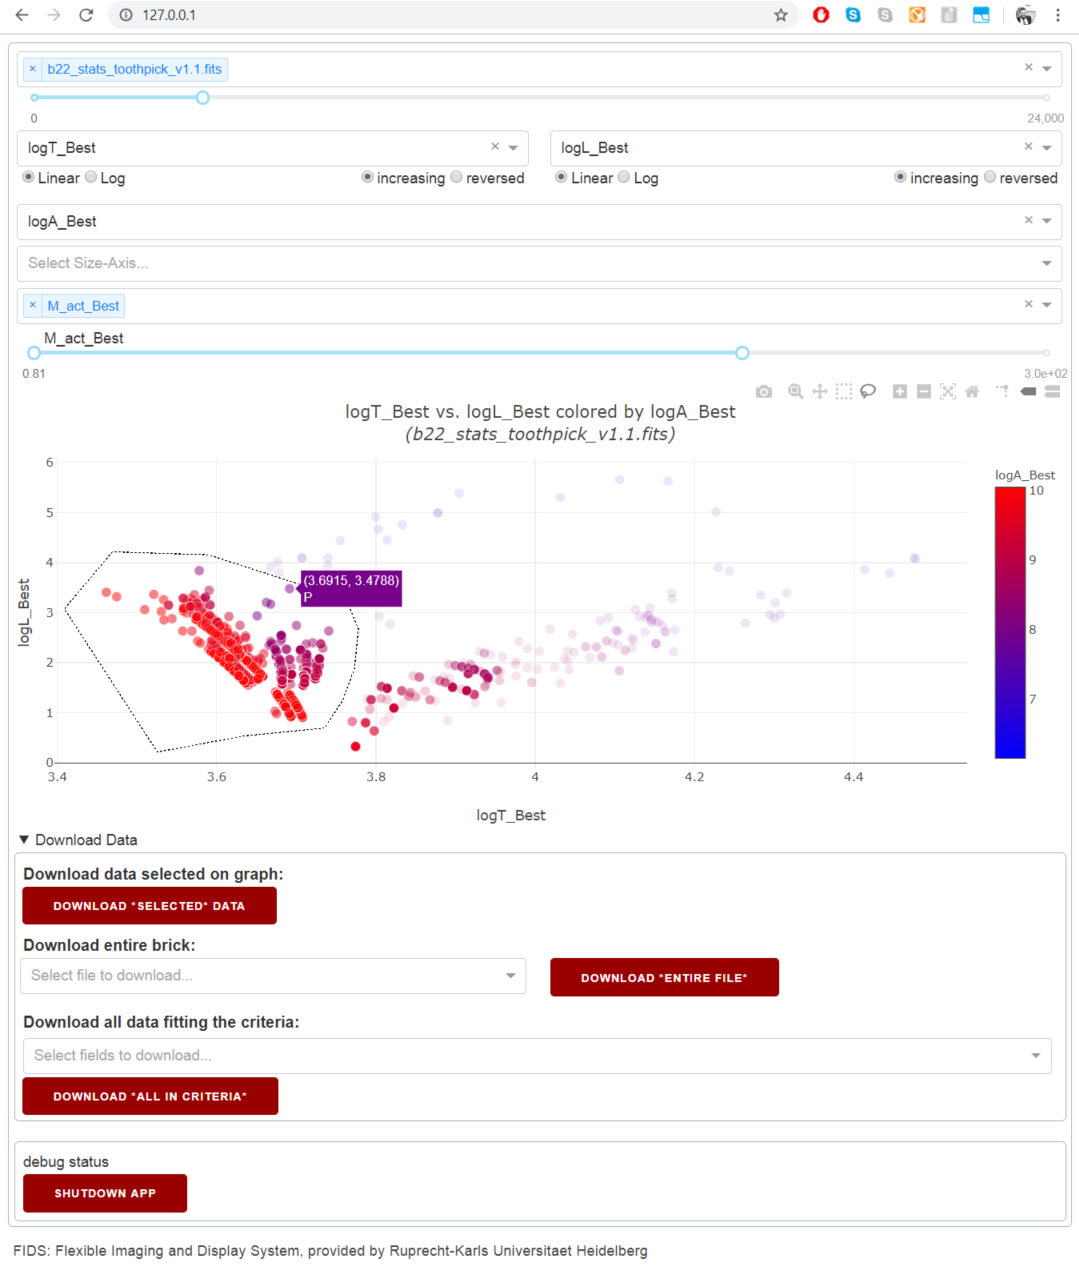
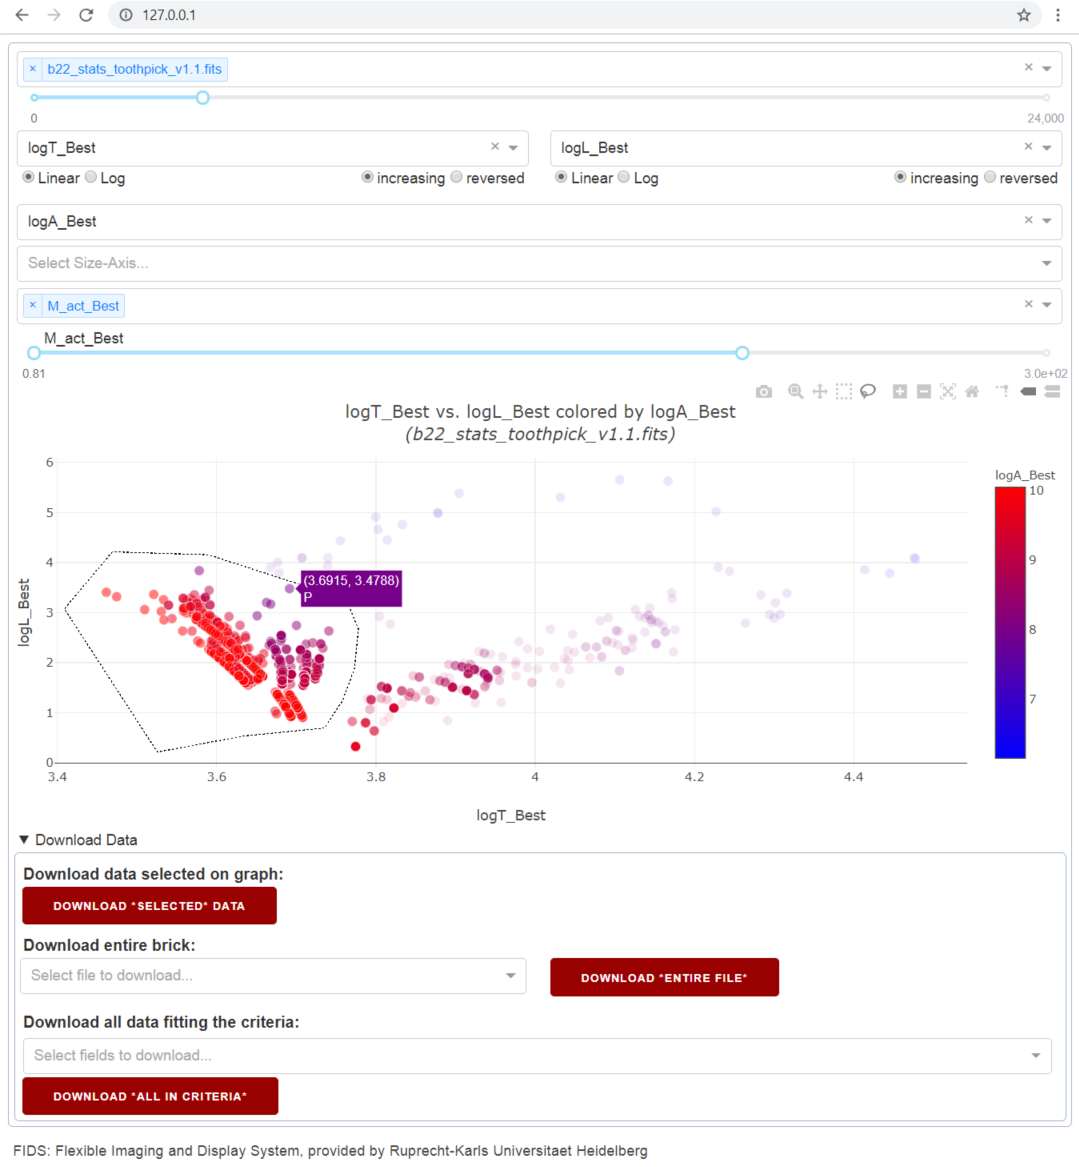
add encodings to files, add more descriptions, update screenshot

diff --git a/data_selector.py b/data_selector.py
@@ -1,3 +1,4 @@
+# -*- coding: utf-8 -*-
 import numpy as np
 from datetime import datetime as dt
 import time
@@ -8,7 +9,7 @@ from memory_profiler import profile
 #   Slicing Data
 ##################################################################################
 def get_limits(bricks_selected, limit_dict, brick_column_details):
-    ''' returns limits that are smaller than the limits in the selected bricks '''
+    """ returns limits that are smaller than the limits in the selected bricks """
     if limit_dict:
         brick_limits = {
             col_name:[ 
@@ -33,7 +34,7 @@ def get_limits(bricks_selected, limit_dict, brick_column_details):
     return lim_dict
 
 def get_brick_usage(bricks_selected, limit_dict, brick_column_details):
-    ''' returns dict with brick name and fraction of brick used '''
+    """ returns dict with brick name and fraction of brick used """
     if limit_dict:
         brick_usage = {}
         for brick in bricks_selected:
@@ -59,6 +60,7 @@ def get_brick_usage(bricks_selected, limit_dict, brick_column_details):
     return brick_usage
 
 def get_relevant_bricks(bricks_selected, criteria_dict, brick_column_details, min_usage):
+    """ return brick list that is above criteria """
     # Adjust for Brick usage: Only use above min, oversample proportionally, etc.
     brick_usage = get_brick_usage(bricks_selected, criteria_dict, brick_column_details)
     print("    brick_usage: ", brick_usage)
@@ -69,7 +71,7 @@ def get_relevant_bricks(bricks_selected, criteria_dict, brick_column_details, mi
     return bricks_selected
 
 def reduce_cols(data, axis_name_list, selection=0):
-    ''' slice by axis name list '''
+    """ slice by axis name list """
     # TODO: testing other implementation
     t1 = time.time()
     if type(selection) != int:
@@ -93,14 +95,15 @@ def reduce_cols(data, axis_name_list, selection=0):
     return selection
 
 def get_within_limits(data, col_name, limits):
+    """ return boolean array of entries that are within limits """
     return np.logical_and(
         data[col_name] > limits[0], 
         data[col_name] < limits[1]
     )
 
 def slice_data(data, criteria_dict, axis_name_list=[], list_comp=True):
-    ''' given data array, slice it and return 
-    criteria {'column_name':(min, max)}, return sliced '''
+    """ given data array, slice it and return 
+    criteria {'column_name':(min, max)}, return sliced """
     # Pass in Data reference
     #t1 = time.time()
     #data = data.data
@@ -130,7 +133,7 @@ def slice_data(data, criteria_dict, axis_name_list=[], list_comp=True):
 # No longer used...
 
 def get_slice_idx(data, axis_name_list, criteria_dict):
-    ''' given criteria {'column_name':(min, max)}, return sliced '''
+    """ given criteria {'column_name':(min, max)}, return sliced """
     # Bulk slicing
     #print(criteria_dict.items())
     #t1 = time.time()
@@ -143,7 +146,7 @@ def get_slice_idx(data, axis_name_list, criteria_dict):
     return selection
 
 def get_slice_idx2(data, axis_name_list, criteria_dict):
-    ''' given criteria {'column_name':(min, max)}, return sliced '''
+    """ given criteria {'column_name':(min, max)}, return sliced """
     # Individual slicing for more efficient computation
     #t1 = time.time()
     selection = np.array([])#np.ones(data.data.shape[0], dtype=bool)

diff --git a/slider_magic.py b/slider_magic.py
@@ -1,3 +1,4 @@
+# -*- coding: utf-8 -*-
 import math
 import numpy as np
 import dash_core_components as dcc
@@ -26,7 +27,7 @@ def get_log_range(column_min, column_max, log_base=10):
     return log_range
 
 def construct_log_range(column_name, column_details):
-    ''' construct slider with log markings adjusting for negatives '''
+    """ construct slider with log markings adjusting for negatives """
     marks = {'0':0, **{
         (i): '{}'.format(10 ** i) 
         for i in range(*get_log_range(column_name, column_details))
@@ -62,7 +63,7 @@ def get_range_slider(column_name, id_given, col_range, marks=None, granularity=1
     return html.Div([title, html.Div(slider, style = {'margin': '0px 0  15px 0'})])
 
 def get_marks(col_range, certainty=2, include_zero=False):
-    ''' get proper formatting for marks '''
+    """ get proper formatting for marks """
     sig_digits = get_sig_digits(col_range, certainty)
     sig_digit_formatter = "{}".format(sig_digits)
     marks = {
@@ -80,6 +81,7 @@ def get_marks(col_range, certainty=2, include_zero=False):
     return marks
 
 def get_sig_digits(col_range, certainty):
+    """ given tuple and certainty, return number of significant digits necessary to differntiate between the two numbers """
     sig_digit = round(abs(np.log10(1-np.min(np.abs(col_range))/np.max(np.abs(col_range)))))+certainty
     if not np.isfinite(sig_digit):
         print(col_range)
@@ -88,6 +90,7 @@ def get_sig_digits(col_range, certainty):
     return sig_digit
 
 def parse_datatype(value):
+    """ parse numpy datatypes to python standard for JSON serialization """
     if type(value) in [np.int64, np.int32]:
         return int(value)
     elif type(value) in [np.float64, np.float32]:

diff --git a/get_file_info.py b/get_file_info.py
@@ -1,7 +1,9 @@
+# -*- coding: utf-8 -*-
 from pprint import pprint
 from io_tools import save_json, load_json, parse_datatype
 
 def get_missing_brick_info(data, brick_column_details, brick_name_list, column_list, acceptable_types=['>f8', '>f4', '>i8', '>i4']):
+    """ get missing minimum, maximum for brick_column_details """
     brick_data_types = dict(data[list(data.keyzs())[0]].data.dtype.descr)
     # Save all columns missing for each brick
     missing_column_dict = {}
@@ -66,6 +68,3 @@ def get_missing_brick_info(data, brick_column_details, brick_name_list, column_l
     if added_info:
         save_json(brick_column_details, 'brick_column_details.json', savepath=settings['savepath'])
     return brick_column_details
-
-
-

diff --git a/io_tools.py b/io_tools.py
@@ -1,3 +1,4 @@
+# -*- coding: utf-8 -*-
 from memory_profiler import profile
 
 import json
@@ -12,12 +13,14 @@ def load_json(filename, savepath='/'):
         return {}
 
 def save_json(dictionary, filename, savepath='/'):
+    """ save dictionary as json """
     with open(savepath+filename,'w') as f:
         json.dump(dictionary, f, sort_keys=True, indent=4)
     return True
 
 import numpy as np
 def parse_datatype(value):
+    """ numpy datatypes to python native types for JSON serialization """
     if type(value) in [np.int64, np.int32]:
         return int(value)
     elif type(value) in [np.float64, np.float32]:

diff --git a/setup_dataset.py b/setup_dataset.py
@@ -1,3 +1,4 @@
+# -*- coding: utf-8 -*-
 import numpy as np
 import json
 from pprint import pprint
@@ -31,7 +32,7 @@ else:
     column_names = sorted(data[filename_list[0]].columns.names)
 
 ########################################################################################
-#   Compute brick detaiks
+#   Compute brick details
 ########################################################################################
 slice_col_list = column_names#[0:5]
 print("Slice Col List: ", slice_col_list)

diff --git a/documentation.md b/documentation.md
@@ -11,7 +11,7 @@ FIDS requires Python 3.6+ installed and the use of your preferred package manage
 FIDS is hosted as a package on GitHub (<https://www.github.com/the-rccg/FIDS/>).
 There are two ways to start your version of FIDS locally:
 
-- download FIDS  as a ZIP file from GitHub and extract to desired directory
+- download FIDS as a ZIP file from GitHub and extract to desired directory
 - fork the GitHub repository directly
 
 ### Configuring the settings
@@ -35,7 +35,7 @@ Visual Settings:
 
 - ```name:  [string]``` Name of the app to be displayed in the title bar of the browser
 - ```title:  [string]``` Name of the app to be displayed in the center-top of the applicaiton
-- ```columns_to_use:  [list of strings] ``` Column names that will be allowed to be selected in the application
+- ```columns_to_use:  [list of strings]``` Column names that will be allowed to be selected in the application
 - ```name_column:  [string]``` Name of the column used to name the datapoints with on selection
 - ```color_scale:  [string]``` Name of the colorscheme used for the color axis
 - ```marker_size:  [int]``` Size of datapoints
@@ -52,7 +52,6 @@ Default Values:
 - ```default_color_column:  [string]``` Default color-collumn to load for every visitor
 - ```display_count_default:  [integer]``` Default for the number of points to be loaded
 
-  
 Slicing Settings:
 
 - ```selection_granularity:  [integer]``` Number of elements in which the space if uniformly cut to allow slicing
@@ -65,6 +64,7 @@ FIDS needs certain metadata to display limits, and determine if a file should ev
 In order to calculate these, just run the "setup.py" file after pointing the path in settings to the correct destination as described in the preceeding section.
 
 It is also possible to manually provide these. For this a nested JSON format is used in the local/brick_columns_details.json (or whever you specified your local file destination). The format for this is:
+
 ```json
 {
     "file_name.fits": {
@@ -80,7 +80,7 @@ It is also possible to manually provide these. For this a nested JSON format is 
 
 ### Starting FIDS
 
-Once the column details JSON is created the app can be started by running FIDS.py in your console. 
+Once the column details JSON is created the app can be started by running FIDS.py in your console.
 This will start the flask server on your defined IP address. 
 
 To access FIDS simply open up a window in your browser, type in the IP address and port into the address field (e.g. ```127.0.0.1:80```) and wait for the app to load. Note, the first load can take longer as the server has to check and set up the application.
@@ -107,12 +107,12 @@ The use of commercial databases and cloud infrastrucure for analysis of astronom
 - [x] Adjust limits based on selected files
 - [x] Interactively visualize full or subset of qualifying points
 - [x] Allow downloading: individual files, current selection
+- [x] Allow downloading all points that fall under criteria
 
 ## Upcoming Features
 
 - [ ] Distribute slicing workload using Dask
-- [ ] Allow downloading all points that fall under criteria
-- [ ] Download all displayed points (if none selected)
+- [ ] Download all displayed points, if none selected
 - [ ] Mouse-over explanation
 - [ ] How-to Documentation
 
